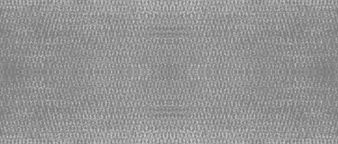
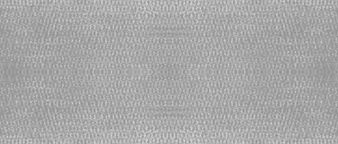
0

diff --git a/examples/experimental/test.rs b/examples/experimental/test.rs
@@ -3,30 +3,61 @@ use keru::*;
 use keru::node_library::*;
 use keru::example_window_loop::*;
 
-
 struct State {}
 
+struct Button2<'a> {
+    text: &'a str,
+    layout: Layout,
+    key: NodeKey,
+}
+impl<'a> Button2<'a> {
+
+}
+impl<'a> Component for Button2<'a> {
+    type State = ();
+    type AddResult = ();
+    type ComponentOutput = ();
+
+    fn add_to_ui(&mut self, ui: &mut Ui, state: &mut Self::State) -> Self::AddResult {
+        todo!()
+    }
+}
+
+
 fn update_ui(state: &mut State, ui: &mut Ui) {
-    ui.add(V_STACK).nest(|| {
-        let image = IMAGE
-            .static_image(include_bytes!("../assets/glitch.jpg"))
-            .shape(Shape::Circle)
-            .shape(Shape::Rectangle { rounded_corners: RoundedCorners::ALL, corner_radius: 10.0 })
-            .shape(Shape::HexGrid { lattice_size: 20.0, offset: (0.0, 0.0), line_thickness: 1.0 })
-            .color(Color::from_hex(0xee8031).with_alpha(0.9))
-            .image_options(ImageOptions {
-                nine_slice: None,
-                tile_x: TileMode::Tile,
-                tile_y: TileMode::Tile,
-            })
-            .size(Size::Frac(0.9), Size::Frac(0.9));
+    let image = IMAGE
+        .static_image(include_bytes!("../assets/glitch.jpg"))
+        .shape(Shape::Circle)
+        .shape(Shape::Rectangle { rounded_corners: RoundedCorners::ALL, corner_radius: 10.0 })
+        .shape(Shape::HexGrid { lattice_size: 20.0, offset: (0.0, 0.0), line_thickness: 1.0 })
+        .color(Color::from_hex(0xee8031).with_alpha(1.0))
+        .image_options(ImageOptions {
+            nine_slice: None,
+            tile_x: TileMode::Tile,
+            tile_y: TileMode::Tile,
+        })
+        .size(Size::Frac(0.7), Size::Frac(0.7));
 
-        ui.add(image);
+    ui.add(image);
 
+    const BACKGROUND: Color = Color::new(0.878, 0.878, 0.878 + 0.03, 1.0);
+    const DARK: Color = Color::new(0.45, 0.45, 0.45 + 0.03, 1.0);
+    const LIGHT: Color = Color::new(1.0, 1.0, 1.0, 1.0);
+
+    let left_vstack = V_STACK.size_x(Size::Frac(0.3)).position_x(Pos::Start).stack_spacing(30.0);
+    ui.add(left_vstack).nest(|| {
+        ui.add(BUTTON.text("Cope"));
+        ui.add(BUTTON.text("Seethe"));
+        ui.add(BUTTON.text("Sneed"));
     });
+
 }
 
 fn main() {
     let state = State {};
     example_window_loop::run_example_loop(state, update_ui);
 }
+
+
+
+